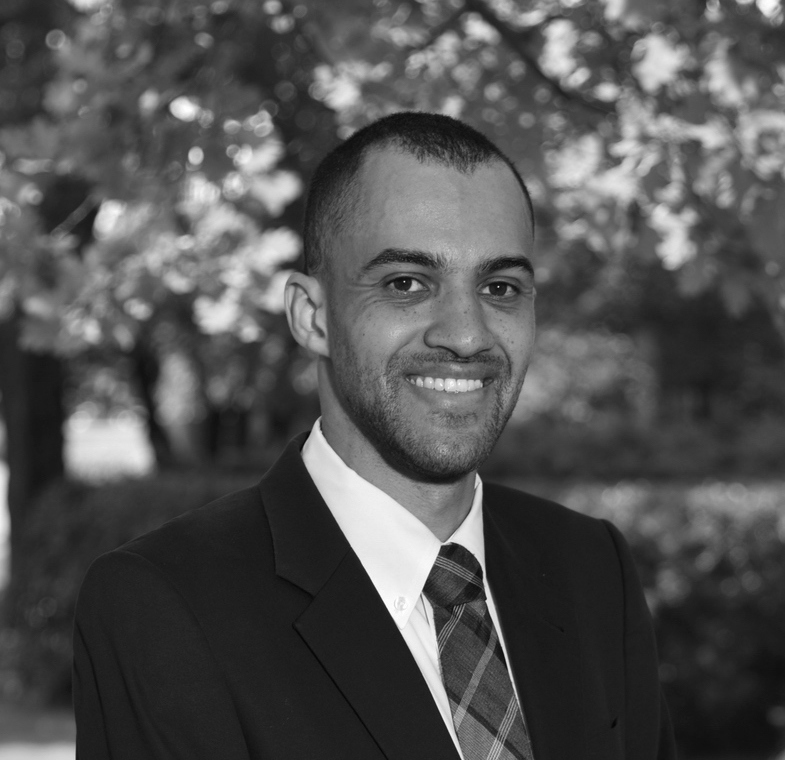
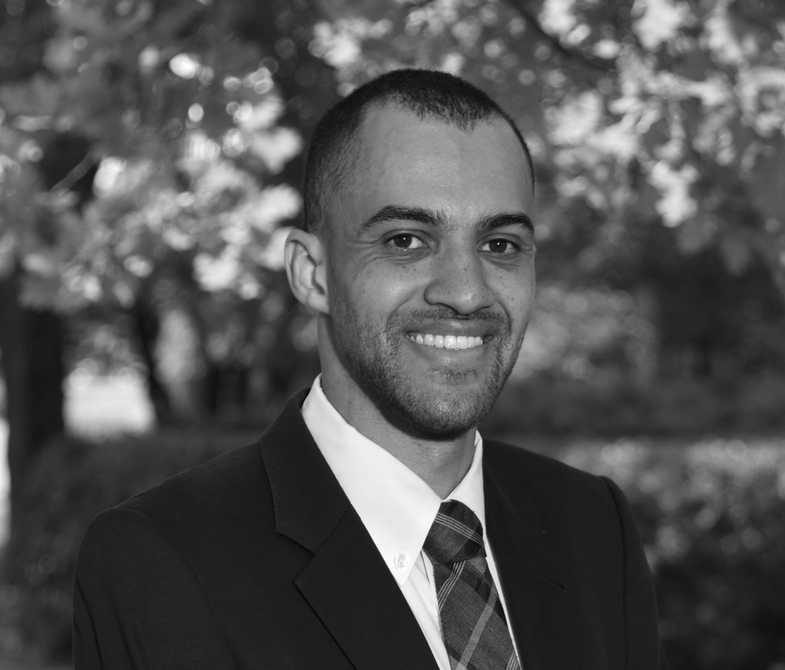
fixed test site

diff --git a/test.html b/test.html
@@ -28,9 +28,10 @@
 	    	<center>PhD Candidate at <b>Northwestern University</b>'s Department of Economics.</center>
 	    </header>
 	    <picture>
-		  <source srcset="headshot4.jpg" media="(max-width: 630px)">
+		  <source srcset="headshot5.jpg" media="(max-width: 520px)">
+		  	<source srcset="headshot4.jpg" media="(max-width: 740px)">
 		  <source srcset="photo11.jpg">
-		  <img class="photo_alt" src="headshot4.png" alt="photo11" width="100%">
+		  <img class="photo_alt" src="headshot5.png" width="100%">
 		</picture>
 	    <!---->
 	    <div>
